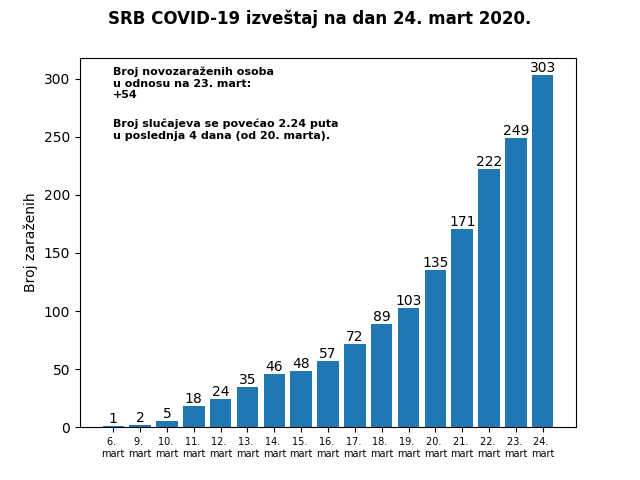
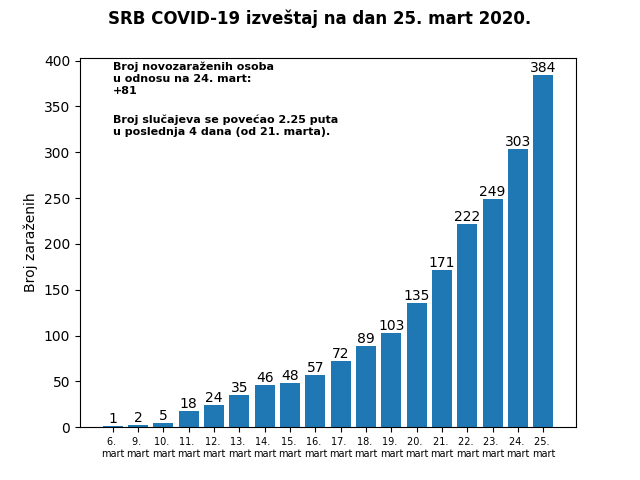
Refactored text height

diff --git a/main.py b/main.py
@@ -200,7 +200,7 @@ if "Информације" in tts_content.find('h1', class_='col-xs-12').text:
 
                 double_coeff = determine_coeff_dict["coefficient"]
                 # TODO: Fix text_bottom_h value generation
-                text_bottom_h = text_top_h - 35
+                text_bottom_h = text_top_h - 45
                 plt.text(0, text_bottom_h,
                          f"Broj slučajeva se povećao "
                          f"{double_coeff} puta \nu poslednja "
